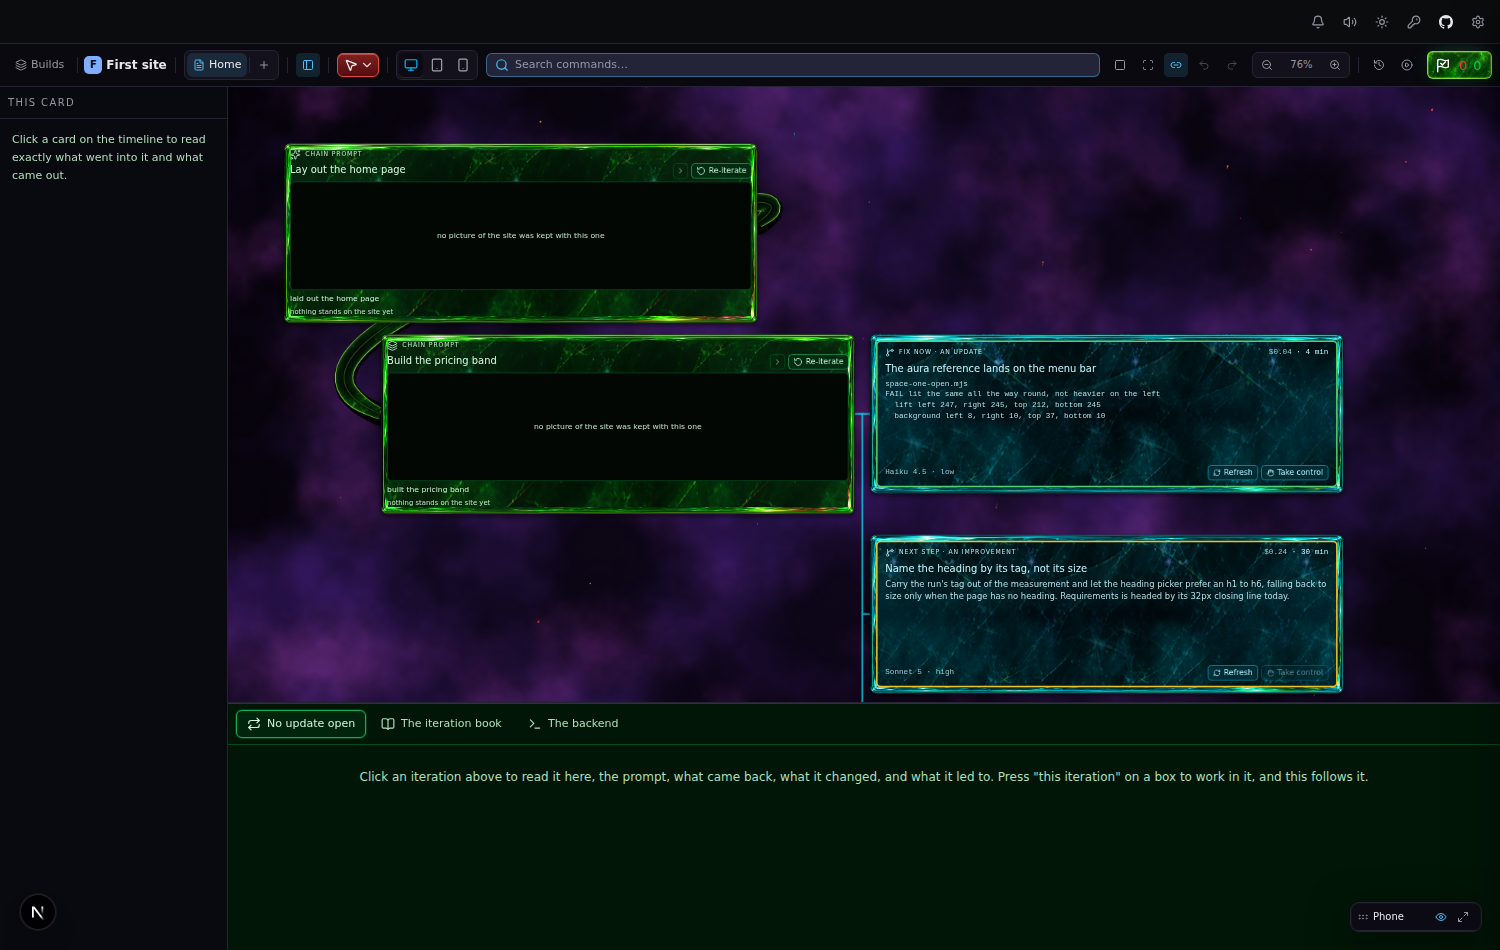
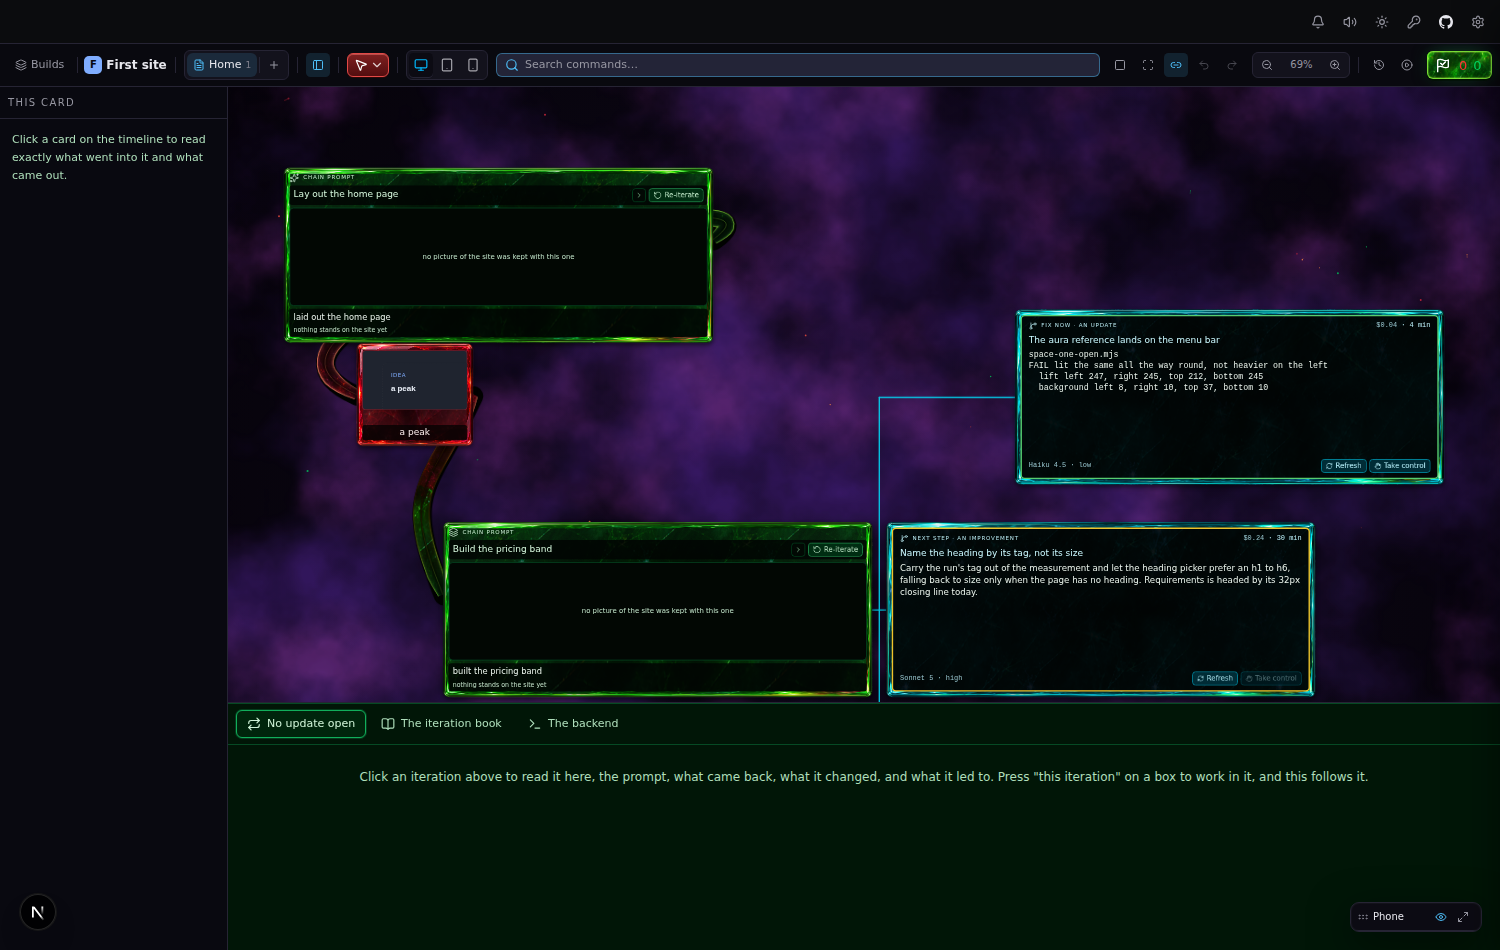
The lanes fan off the latest box as he drew it, and every box's body line sits on a calm ground
Middle lane beside the latest box and level with it, its centre the
box's own to the pixel; top lane up and to the right; bottom lane down
and to the right; the connector a bracket opening right. The words on a
box, green, red or blue, sit on a near-black ground in the box's own
hue; the body line is 12px medium where it was 10px regular, and the
title stays where it was. Contrast measured off the screen on all three.

Claude-Session: https://claude.ai/code/session_011dxs3jh1JLZT6UEd7hCDPr

Changed region(s): [[0.184, 0.1526, 0.9813, 0.7632], [0.1533, 0.0611, 0.3987, 0.0916], [0.276, 0.2442, 0.3987, 0.2747]]

diff --git a/src/features/studio/Lanes.tsx b/src/features/studio/Lanes.tsx
@@ -7,6 +7,7 @@ import { play } from "@/core/audio/engine";
 import { useStudio } from "./store";
 import { BAND_COLOUR, LANE_MODE, laneRects, nextIn, shown, type Item, type Lane, type Lanes as LanesData, type Rect } from "./lanes";
 import { SAMPLE } from "./lanesSample";
+import { BODY, GROUND } from "./boxGround";
 
 /**
  * The three lanes, hanging off the end of the timeline.
@@ -29,11 +30,28 @@ import { SAMPLE } from "./lanesSample";
  * The content is the checked-in sample (`lanesSample.ts`) read through one
  * typed structure (`lanes.ts`); swapping the source is one import.
  */
-export function Lanes({ from, size, gap, lanes = SAMPLE }: { from: Rect | null; size: { w: number; h: number }; gap: { x: number; y: number }; lanes?: LanesData }) {
-  const rects = laneRects(from, size, gap);
+export function Lanes({ from, fromId, size, gap, lanes = SAMPLE }: { from: Rect | null; fromId: string | null; size: { w: number; h: number }; gap: { x: number; y: number }; lanes?: LanesData }) {
+  /*
+   * The box they hang off is as tall as what it holds, not its nominal
+   * size, and the middle lane's centre must be that box's centre to the
+   * pixel. So its rendered height is read off the box itself, and read
+   * again whenever it changes.
+   */
+  const [tall, setTall] = React.useState<number | null>(null);
+  React.useEffect(() => {
+    if (!fromId) { setTall(null); return; }
+    const el = document.querySelector<HTMLElement>(`[data-box="${fromId}"]`);
+    if (!el) { setTall(null); return; }
+    const read = () => setTall(el.offsetHeight || null);
+    read();
+    const ro = new ResizeObserver(read);
+    ro.observe(el);
+    return () => ro.disconnect();
+  }, [fromId]);
+  const rects = laneRects(from && tall ? { ...from, h: tall } : from, size, gap);
   return (
     <>
-      {from ? <Fan from={from} to={rects} /> : null}
+      {from ? <Fan from={from && tall ? { ...from, h: tall } : from} to={rects} /> : null}
       {lanes.map((lane, i) => (
         <LaneBox key={lane.id} lane={lane} at={rects[i]!} index={i} />
       ))}
@@ -41,26 +59,34 @@ export function Lanes({ from, size, gap, lanes = SAMPLE }: { from: Rect | null; 
   );
 }
 
-/** The bracket: a stub out of the last box, a bar down the three centres, a stub into each. */
+/**
+ * The bracket, opening to the right: a stub out of the latest box's
+ * middle, a bar standing between it and the lanes from the top lane's
+ * centre to the bottom's, and a stub from the bar into each lane at its
+ * own centre. The middle stub is level; the top and bottom stubs reach
+ * out to the diagonal lanes, so nothing on it droops.
+ */
 function Fan({ from, to }: { from: Rect; to: [Rect, Rect, Rect] }) {
   const x0 = from.x + from.w;
-  const bar = x0 + (to[0]!.x - x0) / 2;
+  const nearest = Math.min(...to.map((r) => r.x));
+  const bar = x0 + (nearest - x0) / 2;
   const yFrom = from.y + from.h / 2;
   const centres = to.map((r) => r.y + r.h / 2);
-  const top = Math.min(yFrom, centres[0]!) - 8;
-  const bottom = Math.max(yFrom, centres[2]!) + 8;
+  const top = Math.min(yFrom, ...centres) - 8;
+  const bottom = Math.max(yFrom, ...centres) + 8;
+  const right = Math.max(...to.map((r) => r.x));
   return (
     <svg
       data-lanes-fan=""
       aria-hidden
       className="pointer-events-none absolute"
-      style={{ left: x0, top, width: to[0]!.x - x0, height: bottom - top, overflow: "visible" }}
-      viewBox={`${x0} ${top} ${to[0]!.x - x0} ${bottom - top}`}
+      style={{ left: x0, top, width: right - x0, height: bottom - top, overflow: "visible" }}
+      viewBox={`${x0} ${top} ${right - x0} ${bottom - top}`}
     >
       <g fill="none" stroke="var(--azure-hot)" strokeWidth={2} strokeLinecap="round" strokeLinejoin="round" opacity={0.85}>
-        <path d={`M${x0} ${yFrom} H${bar}`} />
-        <path d={`M${bar} ${Math.min(yFrom, centres[0]!)} V${Math.max(yFrom, centres[2]!)}`} />
-        {centres.map((y) => <path key={y} d={`M${bar} ${y} H${to[0]!.x}`} />)}
+        <path data-fan-stub="" d={`M${x0} ${yFrom} H${bar}`} />
+        <path data-fan-bar="" d={`M${bar} ${Math.min(...centres)} V${Math.max(...centres)}`} />
+        {to.map((r, i) => <path key={i} data-fan-into={i} d={`M${bar} ${centres[i]} H${r.x}`} />)}
       </g>
     </svg>
   );
@@ -99,18 +125,20 @@ function LaneBox({ lane, at, index }: { lane: Lane; at: Rect; index: number }) {
         data-lane-band={s.band}
         className={cn(moltenClass("azure"), "flex w-full flex-col rounded-lg p-2 text-left")}
         style={{
-          minHeight: at.h,
+          height: at.h,
           ...moltenSeed(`lane:${lane.id}`, index),
           color: "oklch(0.93 0.055 210)",
           boxShadow: "0 3px 6px oklch(0 0 0 / 0.5)",
         }}
       >
         <span data-molten="" />
-        {/* The cost band: the one line inside the rim, and the one thing coloured by cost. */}
+        {/* The cost band: the one line inside the rim, and the one thing coloured by cost.
+            Inside it the words sit on a calm ground, not on the texture: the
+            texture is his and stays, the reading is the ground's. */}
         <div
           data-lane-band-line=""
           className="grid min-h-0 flex-1 rounded-md"
-          style={{ border: `2px solid ${band}`, padding: "6px 10px", gridTemplateRows: "16px 18px 1fr 22px", rowGap: 4 }}
+          style={{ border: `2px solid ${band}`, padding: "6px 10px", gridTemplateRows: "16px 18px 1fr 22px", rowGap: 4, background: GROUND }}
         >
           <div className="flex items-center justify-between">
             <span className="flex items-center gap-1.5 text-[8px] uppercase tracking-[0.14em]" style={{ color: "oklch(0.9 0.05 210)" }}>
@@ -123,9 +151,9 @@ function LaneBox({ lane, at, index }: { lane: Lane; at: Rect; index: number }) {
           <span data-lane-title="" className="truncate text-[13px] font-medium leading-[18px]" style={{ color: "oklch(0.95 0.05 210)" }}>{item.title}</span>
           <div className="min-h-0 overflow-hidden">
             {item.kind === "fix" ? (
-              <pre data-lane-detail="" className="m-0 whitespace-pre-wrap break-words font-mono text-[10px] leading-[14px]" style={{ color: "oklch(0.88 0.04 210)", maxHeight: "100%" }}>{item.detail}</pre>
+              <pre data-lane-detail="" className="m-0 whitespace-pre-wrap break-words font-mono text-[12px] font-medium leading-[16px]" style={{ color: BODY, maxHeight: "100%" }}>{item.detail}</pre>
             ) : (
-              <p data-lane-detail="" className="m-0 line-clamp-5 text-[11px] leading-[15px]" style={{ color: "oklch(0.88 0.04 210)" }}>{item.detail}</p>
+              <p data-lane-detail="" className="m-0 line-clamp-4 text-[12.5px] font-medium leading-[17px]" style={{ color: BODY }}>{item.detail}</p>
             )}
           </div>
           <div className="flex items-center justify-between gap-2">

diff --git a/src/features/studio/Timeline.tsx b/src/features/studio/Timeline.tsx
@@ -60,6 +60,7 @@ import { Tooltip } from "@/core/ui/tooltip";
 import { Button } from "@/core/ui/button";
 import { acrossFor, sameView, settleEase, settleView, zoomCeiling, SETTLE_MS, type View } from "./timelineView";
 import { Lanes } from "./Lanes";
+import { BODY, GROUND } from "./boxGround";
 import { LANE_MODE, laneRects } from "./lanes";
 import { paintStrand, strandBounds, strandEnvelope, strandSeam, type Point, type StrandTone, type VineEnd } from "./strand";
 import { sayWhere, saySpend } from "./spend";
@@ -1150,7 +1151,7 @@ export function Timeline() {
           as an iteration through the same door as everything else and
           stands in the chain in blue.
         */}
-        <Lanes from={lanesFrom} size={BOX} gap={GAP} />
+        <Lanes from={lanesFrom} fromId={lastThread?.id ?? null} size={BOX} gap={GAP} />
 
         {/*
           The cut line down each vine, and nothing else on a vine.
@@ -1570,7 +1571,7 @@ function Asked({ thread }: { thread: Thread }) {
     askTheBook({ mode: thread.mode, prompt: words.trim(), run: true });
   };
   return (
-    <div data-asked={page} className="flex shrink-0 items-start gap-2">
+    <div data-asked={page} className="flex shrink-0 items-start gap-2 rounded-[4px] px-1.5 py-1" style={{ background: GROUND }}>
       <span className="min-w-0 flex-1">
         {page === 0 ? (
           <span data-asked-said="" className="line-clamp-2 block text-[13px] font-medium leading-snug text-[oklch(0.95_0.05_var(--box-hue,150))]">
@@ -1723,8 +1724,9 @@ function Features({ thread }: { thread: Thread }) {
      disagree about which parts are this update's. */
   const { parts, mine } = React.useMemo(() => ownParts(thread, parent), [thread, parent]);
   return (
-    <div className="flex min-h-0 shrink-0 flex-col gap-1">
-      <span data-headline="" className="line-clamp-1 block text-[10px] text-[oklch(0.93_0.06_var(--box-hue,152))]">
+    <div className="flex min-h-0 shrink-0 flex-col gap-1 rounded-[4px] px-1.5 py-1" style={{ background: GROUND }}>
+      {/* The body line, up toward the title: 12px and medium where it was 10px and regular, near white on the ground. */}
+      <span data-headline="" className="line-clamp-1 block text-[12px] font-medium leading-snug" style={{ color: BODY }}>
         {headlineOf(thread)}
         {thread.changes.length > 1 ? ` · and ${thread.changes.length - 1} more` : ""}
       </span>
@@ -1893,8 +1895,8 @@ function ElementPiece({
             </span>
           )}
         </span>
-        <span className="block text-center">
-          <span data-headline="" className="line-clamp-1 block text-[13px] font-medium leading-snug text-[oklch(0.95_0.05_22)]">{name}</span>
+        <span className="block rounded-[4px] px-1.5 py-0.5 text-center" style={{ background: GROUND, "--box-hue": 18 } as React.CSSProperties}>
+          <span data-headline="" className="line-clamp-1 block text-[13px] font-medium leading-snug" style={{ color: BODY }}>{name}</span>
           {thread.changes.length > 1 ? (
             /* 0.93, up from 0.9. At nine pixels on the ember face this was the
                worst run of words anywhere on the timeline and it sat exactly on

diff --git a/src/features/studio/lanes.ts b/src/features/studio/lanes.ts
@@ -176,13 +176,31 @@ export interface Rect {
 export const LANE_MODE = "lane";
 
 /**
- * Where the three lane boxes stand: past the last real box, one slot to
- * its right, stacked downward from its top so the top lane is level with
- * it and nothing above the last row is covered. With no box at all they
- * hang off where the first box would be.
+ * Where the three lane boxes stand, from his drawing: a fan off the
+ * latest box to its right, centred on that box. The middle lane is
+ * beside it, level, its vertical centre the latest box's own. The top
+ * lane is diagonally above, up and to the right; the bottom lane
+ * diagonally below, down and to the right. One above the centre line,
+ * one on it, one under it. Every lane is as tall as the box it hangs
+ * off, so the middle's centre is the latest's centre to the pixel. With
+ * no box at all they hang off where the first box would be.
+ *
+ * Diagonal is a real step to the right, three tenths of a box, so the
+ * three read as a fan and not as a column. When the chain has wrapped
+ * and the row above the latest box has a box in the next column, the top
+ * lane stands over part of it: that is where his drawing puts it, and the
+ * lane sits under the real box rather than covering it.
  */
+export const DIAGONAL = 0.3;
 export function laneRects(from: Rect | null, size: { w: number; h: number }, gap: { x: number; y: number }): [Rect, Rect, Rect] {
+  const h = from ? from.h : size.h;
   const x = from ? from.x + from.w + gap.x : 140;
-  const top = from ? from.y : 130;
-  return [0, 1, 2].map((i) => ({ x, y: top + i * (size.h + gap.y), w: size.w, h: size.h })) as [Rect, Rect, Rect];
+  const cy = from ? from.y + from.h / 2 : 130 + h / 2;
+  const step = h + gap.y;
+  const diag = Math.round(size.w * DIAGONAL);
+  return [
+    { x: x + diag, y: cy - step - h / 2, w: size.w, h },
+    { x, y: cy - h / 2, w: size.w, h },
+    { x: x + diag, y: cy + step - h / 2, w: size.w, h },
+  ];
 }

diff --git a/src/features/studio/boxGround.ts b/src/features/studio/boxGround.ts
@@ -1,0 +1,18 @@
+/**
+ * The ground the words on a box sit on.
+ *
+ * His render is busy and high in contrast, and words set straight on it
+ * lost: nine and ten pixel lines in a colour a shade off the surface. The
+ * texture is his and stays. What changed is the reading: every run of
+ * body words on a box, green, red or blue, sits on this ground, a near
+ * black in the box's own hue at four fifths, so the filaments show
+ * through the edges of it and the words stand on something calm. `BODY`
+ * is the colour the body line is set in on that ground: near white, and
+ * the same on all three hues.
+ *
+ * The hue comes off `--box-hue`, which every box sets on itself (152 for
+ * an iteration, 210 for a lane's work, 18 for a drawing), so one ground
+ * follows the three surfaces without knowing which it is on.
+ */
+export const GROUND = "oklch(0.1 0.015 var(--box-hue, 152) / 0.82)";
+export const BODY = "oklch(0.96 0.015 var(--box-hue, 152))";
